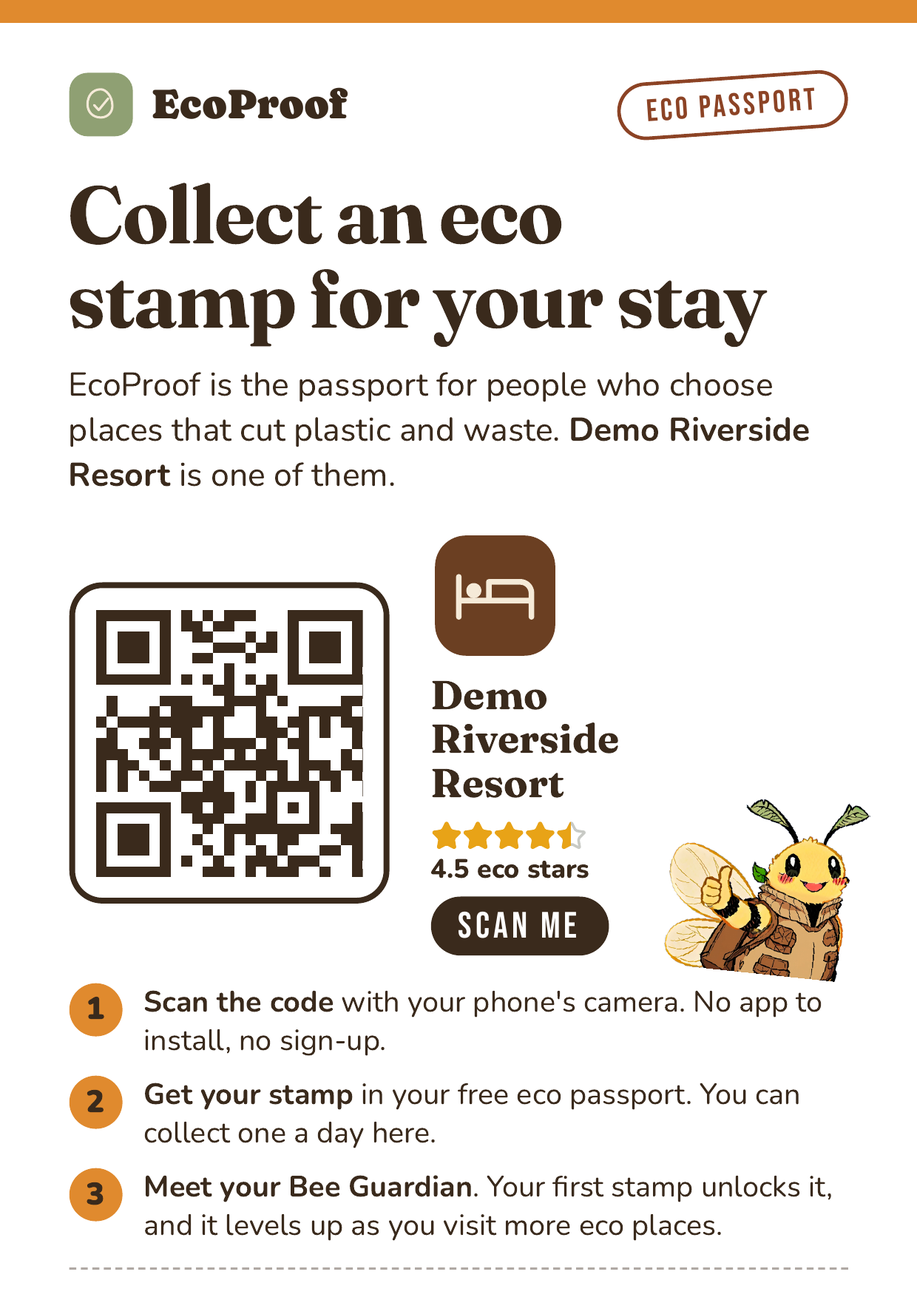
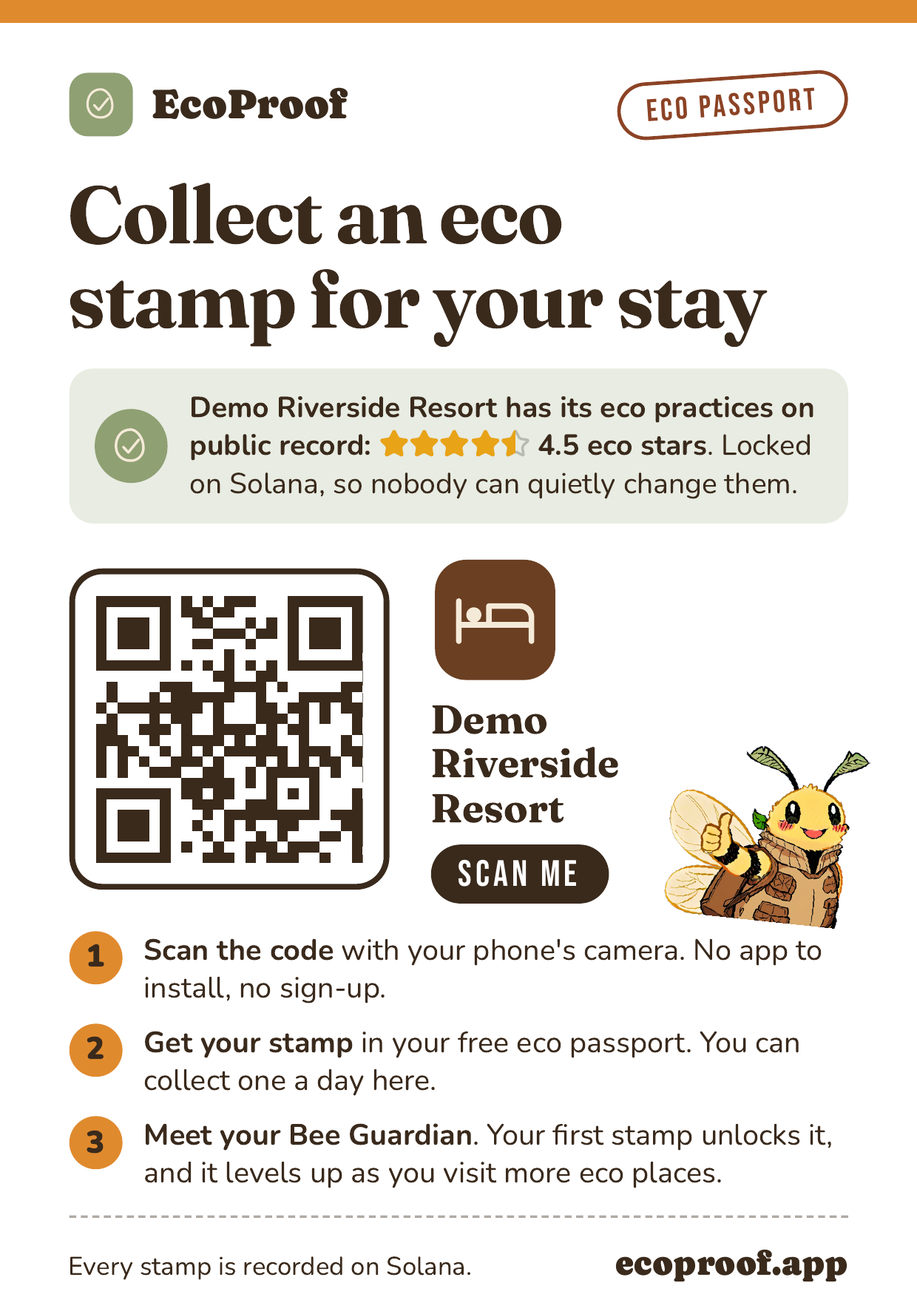
Postcard says the place's eco practices are on public record; hero room gets a big table
The counter postcard shows the place's eco stars in a box under the headline
(published practices, locked on Solana) and drops the lead to make room.
The café, restaurant, hotel and hero pictures are re-made with it. The hero's
wicker table becomes a big wooden one with a jar of tea and a refill bottle.

Claude-Session: https://claude.ai/code/session_01HWHP3iugw8gkvvKKS5vpBj

Changed region(s): [[0.0613, 0.2771, 0.95, 0.9852]]

diff --git a/components/Postcard.tsx b/components/Postcard.tsx
@@ -51,7 +51,13 @@ export default function Postcard({ mark, headline, place, qr, code, steps }: Pos
         </div>
 
         <p className="pc-h">{headline}</p>
-        <p className="pc-lead">EcoProof is the passport for people who choose places that cut plastic and waste. <b>{place.name}</b> is one of them.</p>
+        {place.stars ? <>
+          {/* The lead gives way to this box (the card's height is fixed); the steps still say what the passport is. Why to trust the place itself: its practices are published and anchored (lib/declarations.ts). Self-declared, so "on public record", never "certified". */}
+          <p className="pc-proof">
+            <span className="pc-seal" style={{ background: SAGE }}><LeafMark size={100} /></span>
+            <span><b>{place.name} has its eco practices on public record:</b> <span className="pc-stars"><Stars stars={place.stars} size={100} /></span> <b>{place.stars} eco star{place.stars === 1 ? "" : "s"}</b>. Locked on Solana, so nobody can quietly change them.</span>
+          </p>
+        </> : <p className="pc-lead">EcoProof is the passport for people who choose places that cut plastic and waste. <b>{place.name}</b> is one of them.</p>}
 
         <div className="pc-scan">
           <div className="pc-qr">
@@ -62,7 +68,6 @@ export default function Postcard({ mark, headline, place, qr, code, steps }: Pos
             {/* eslint-disable-next-line @next/next/no-img-element */}
             <img src={place.imageUrl} alt="" className="pc-stamp" />
             <span className="pc-name">{place.name}</span>
-            {!!place.stars && <span className="pc-stars"><Stars stars={place.stars} size={100} /><span>{place.stars} eco star{place.stars === 1 ? "" : "s"}</span></span>}
             <span className="pc-arrow">Scan me</span>
             {code && <span className="pc-code">{code}</span>}
           </div>
@@ -110,9 +115,11 @@ export function postcardCss({ cols, rows, landscape = false }: { cols: number; r
 .pc-place { min-width: 0; flex: 1; display: flex; flex-direction: column; align-items: flex-start; gap: 1.5cqw; }
 .pc-stamp { width: 14cqw; height: 14cqw; }
 .pc-name { max-width: 26cqw; font-family: var(--font-fraunces), Georgia, serif; font-weight: 700; font-size: 4.4cqw; line-height: 1.1; overflow-wrap: anywhere; }
-.pc-stars { display: flex; flex-wrap: wrap; align-items: center; gap: 0.6cqw 1.2cqw; max-width: 26cqw; font-size: 2.9cqw; font-weight: 800; line-height: 1; }
-.pc-stars > span:first-child { display: inline-flex; flex: none; }
-.pc-stars svg { width: 3.4cqw; height: 3.4cqw; }
+.pc-proof { margin-top: 3cqw; padding: 2.2cqw 2.8cqw; display: flex; gap: 2.4cqw; align-items: center; border-radius: 2.6cqw; background: rgba(143, 163, 114, 0.2); font-size: 3.15cqw; line-height: 1.32; text-wrap: pretty; }
+.pc-seal { flex: none; display: inline-flex; align-items: center; justify-content: center; width: 8cqw; height: 8cqw; border-radius: 999px; }
+.pc-seal svg { width: 60%; height: 60%; }
+.pc-stars { display: inline-flex; vertical-align: -0.4cqw; }
+.pc-stars svg { width: 3.3cqw; height: 3.3cqw; }
 .pc-arrow { font-family: var(--font-bebas), Impact, sans-serif; font-size: 4cqw; letter-spacing: 0.1em; text-transform: uppercase; line-height: 1; color: #fff; background: var(--color-cocoa);
   border-radius: 999px; padding: 1.4cqw 3cqw 1cqw; }
 .pc-steps { margin-top: auto; padding-top: 3cqw; display: grid; gap: 1.8cqw; font-size: 3.2cqw; line-height: 1.3; }

diff --git a/components/landing/IslandHero.tsx b/components/landing/IslandHero.tsx
@@ -1,16 +1,16 @@
 import Image from "next/image";
 
 /** The landing's hero: the copy on kraft paper, and a photo of a guest in an eco hotel room in late-afternoon light with the hotel's
- *  A6 postcard on the table (Pola, 2026-11-18: warm, comfy, clean, so the viewer trusts EcoProof and feels a good green choice;
+ *  A6 postcard on a wooden table beside a jar of tea and a refill bottle (Pola, 2026-11-18: warm, comfy, clean, so the viewer trusts EcoProof and feels a good green choice;
  *  recipe in art/hero-room). On wide screens the photo fills the right side and fades into the paper under the copy; on phones it
  *  sits above the copy. The fades are `.hero-photo` in app/globals.css. The island artwork (public/landing/island/v4) and the
  *  plain-colour hero with the map before it were replaced the same day; the island files stay in the repo. */
 export default function IslandHero({ children }: { children: React.ReactNode }) {
   return (
     <section className="grain relative overflow-hidden bg-kraft/60">
-      <Image src="/landing/hero/room.webp" width={2432} height={1664} priority sizes="(min-width: 1024px) 62vw, 100vw"
-        alt="A hotel guest sits by the window with a cup of tea in warm evening light. On the table beside her stands the hotel's EcoProof postcard: Collect an eco stamp for your stay, with a QR code"
-        className="hero-photo block aspect-[3/2] w-full object-cover object-[40%_50%] lg:absolute lg:inset-y-0 lg:right-0 lg:aspect-auto lg:h-full lg:w-[62%]" />
+      <Image src="/landing/hero/room-table.webp" width={2432} height={1664} priority sizes="(min-width: 1024px) 58vw, 100vw"
+        alt="A hotel guest sits by the window with a cup of tea in warm evening light. On the wooden table in front of her, next to a jar of tea and a refill bottle, stands the hotel's EcoProof postcard: Collect an eco stamp for your stay, with a QR code"
+        className="hero-photo block aspect-[3/2] w-full object-cover object-left lg:absolute lg:inset-y-0 lg:right-0 lg:aspect-auto lg:h-full lg:w-[58%]" />
       <div className="relative z-10 px-4 pt-6 pb-14 sm:px-6 lg:pt-20 lg:pb-24">{children}</div>
     </section>
   );

diff --git a/components/landing/Landing.tsx b/components/landing/Landing.tsx
@@ -237,7 +237,7 @@ export default async function Landing({ stats }: { stats: LandingStats | null })
         <IslandHero>
           {/* Copy left; the photo of the hotel guest and the postcard (IslandHero) shows beside it, above it on phones. */}
           <div className="mx-auto max-w-[1200px]">
-            <div className="lg:max-w-[470px]">
+            <div className="lg:max-w-[450px]">
               <HeroCopy />
               <CounterStrip stats={stats} className="mt-8 flex" />
             </div>
@@ -350,7 +350,7 @@ export default async function Landing({ stats }: { stats: LandingStats | null })
         <ul className="mt-8 grid gap-6 md:grid-cols-3">
           {doors.map((d, i) => (
             <li key={d.img} className="stitched grain flex flex-col rounded-[20px] bg-kraft/50 p-4 sm:p-5">
-              <Image src={`/landing/doors/v2/${d.img}.webp`} alt="" width={640} height={640} sizes="(min-width: 768px) 360px, 100vw" className="sticker aspect-[16/10] w-full object-cover object-[50%_70%] md:aspect-square" style={{ transform: `rotate(${[-1.5, 1, -1][i]}deg)` }} />
+              <Image src={`/landing/doors/v3/${d.img}.webp`} alt="" width={640} height={640} sizes="(min-width: 768px) 360px, 100vw" className="sticker aspect-[16/10] w-full object-cover object-[50%_70%] md:aspect-square" style={{ transform: `rotate(${[-1.5, 1, -1][i]}deg)` }} />
               <h3 className="mt-5 text-[22px] leading-tight">{d.title}</h3>
               <p className="mt-2 inline-flex items-center gap-1.5 self-start rounded-full bg-paper px-3 py-1 text-[13px] font-extrabold text-cocoa ring-1 ring-cocoa/10"><Stamp size={14} className="shrink-0 text-sky-ink" /> {d.door}</p>
               {/* Three facts per card (critique of 14 Nov 2026: 12+ chunks for "which one am I?"); what customers get is in "For customers". */}

diff --git a/components/landing/HowItWorks.tsx b/components/landing/HowItWorks.tsx
@@ -24,10 +24,10 @@ const VISIT_POINTS = `${Math.min(...visits)}–${Math.max(...visits)} points`;
 
 const PLACES: { cap: string; title: string; points: string; src: string; alt: string }[] = [
   { cap: "The QR code on the counter", title: "Café, restaurant, hotel or resort", points: `${VISIT_POINTS} for each visit, once a day.`,
-    src: `${PIC}/connect.webp`,
+    src: `${PIC}/counter.webp`,
     alt: "A café counter with the EcoProof postcard on a wooden stand beside a cup of coffee: Collect an eco stamp for your visit, a QR code, three steps and the Bee Guardian" },
   { cap: "The receipt from the till", title: "A purchase in an eco shop", points: `${pointsLabel(POINTS_VERIFIED)} for a photo of the receipt, taken in the shop. ${pointsLabel(POINTS_BY_KIND.eco_shop)} for the QR code at the till.`,
-    src: "/landing/doors/v2/store.webp",
+    src: "/landing/doors/v3/store.webp",
     alt: "The counter of an eco shop: a customer photographs the till receipt with a phone, and the screen shows what the purchase avoided" },
   { cap: "The QR code in the order email or the parcel", title: "An online order", points: `${pointsLabel(POINTS_VERIFIED)} for each verified order.`,
     src: `${PIC}/parcel-home.webp`,

diff --git a/app/globals.css b/app/globals.css
@@ -206,7 +206,7 @@ h1, h2, h3, .font-heading { font-family: var(--font-caprasimo), system-ui, sans-
 }
 /* The hero photo fades into the paper: at its bottom on phones (it sits above the copy), at its left on wide screens (beside the copy). */
 .hero-photo { -webkit-mask-image: linear-gradient(to bottom, #000 72%, transparent); mask-image: linear-gradient(to bottom, #000 72%, transparent); }
-@media (min-width: 1024px) { .hero-photo { -webkit-mask-image: linear-gradient(to right, transparent, #000 26%); mask-image: linear-gradient(to right, transparent, #000 26%); } }
+@media (min-width: 1024px) { .hero-photo { -webkit-mask-image: linear-gradient(to right, transparent, #000 7%); mask-image: linear-gradient(to right, transparent, #000 7%); } }
 /* Kraft hero: a faint vignette toward the edges. */
 .vignette::after { content: ""; position: absolute; inset: 0; pointer-events: none; background: radial-gradient(ellipse at center, transparent 55%, rgba(58, 42, 28, 0.12) 100%); }
 @media (prefers-reduced-motion: reduce) {

diff --git a/art/hero-room/compose.py b/art/hero-room/compose.py
@@ -1,26 +1,27 @@
 #!/usr/bin/env python3
-"""The hero's background: the guest by the window (gen.py tea 1004) with the hotel's A6 postcard on its wooden block on the wicker
-table. Stable Diffusion would not draw the card into a scene with a person, so the card and its block are cut out of the hotel
-reception photo (../postcard/reception2_436.png, with the app's own postcard printed on it as in ../postcard/compose.py), warmed to
-this room's evening light and set on the table over the saucer. The room is enlarged 2x first (A1111 extras, R-ESRGAN 4x+) so the
-picture can fill a wide screen. Corners and outlines are read off gridded zooms by hand.
-Run with the WebUI venv python (numpy, cv2) → out_hero.png (2432x1664)."""
+"""The hero's background: the guest by the window (gen.py tea 1004, its small wicker table repainted by table.py 1205 into a big
+wooden table with a jar of tea, an amber bottle and a plant) with the hotel's A6 postcard on its wooden block on that table. Stable
+Diffusion would not draw the card into a scene with a person, so the card and its block are cut out of the hotel reception photo
+(../postcard/reception2_436.png, with the app's own postcard printed on it as in ../postcard/compose.py), warmed to this room's
+evening light and set on the table. The room is enlarged 2x first (A1111 extras, R-ESRGAN 4x+) so the picture can fill a wide
+screen. Corners and outlines are read off gridded zooms by hand. The card must stay clear of the picture's left edge: the hero fades
+that edge into the paper. Run with the WebUI venv python (numpy, cv2) → out_hero.png (2432x1664)."""
 import base64, io, json, pathlib, urllib.request
 import numpy as np, cv2
 from PIL import Image
 D = pathlib.Path(__file__).parent
 QUAD = [(376, 369), (592, 372), (612, 765), (401, 796)]                                   # the blank card in the reception photo, TL TR BR BL
 BLOCK = [(303, 775), (400, 760), (615, 760), (773, 793), (773, 900), (500, 974), (303, 864)]  # the wooden block's outline
-FOOT, AT, SCALE = (500, 974), (362, 697), 0.45    # the block's front corner, where it stands in the room (1216 wide), and its size there
+FOOT, AT, SCALE = (500, 974), (170, 702), 0.5     # the block's front corner, where it stands in the room (1216 wide), and its size there
 TINT = np.array((0.93, 0.80, 0.62))               # evening light on the cut-out
 SS = 2
 
-if not (D/"tea_1004_x2.png").exists():
-    b = io.BytesIO(); Image.open(D/"tea_1004.png").save(b, "PNG")
+if not (D/"table_1205_x2.png").exists():
+    b = io.BytesIO(); Image.open(D/"table_1205.png").save(b, "PNG")
     req = urllib.request.Request("http://127.0.0.1:7860/sdapi/v1/extra-single-image", headers={"Content-Type": "application/json"},
         data=json.dumps({"image": base64.b64encode(b.getvalue()).decode(), "upscaling_resize": 2, "upscaler_1": "R-ESRGAN 4x+"}).encode())
-    Image.open(io.BytesIO(base64.b64decode(json.load(urllib.request.urlopen(req, timeout=900))["image"]))).convert("RGB").save(D/"tea_1004_x2.png")
-room = np.asarray(Image.open(D/"tea_1004_x2.png"), np.float32)
+    Image.open(io.BytesIO(base64.b64decode(json.load(urllib.request.urlopen(req, timeout=900))["image"]))).convert("RGB").save(D/"table_1205_x2.png")
+room = np.asarray(Image.open(D/"table_1205_x2.png"), np.float32)
 
 src = cv2.cvtColor(cv2.imread(str(D/"../postcard/reception2_436.png")), cv2.COLOR_BGR2RGB); H, W = src.shape[:2]
 big = cv2.resize(src, (W*SS, H*SS), interpolation=cv2.INTER_LANCZOS4).astype(np.float32)
@@ -37,7 +38,7 @@ k = SCALE*2/SS
 A = np.float32([[k, 0, AT[0]*2 - FOOT[0]*SS*k], [0, k, AT[1]*2 - FOOT[1]*SS*k]]); size = (room.shape[1], room.shape[0])
 cut = cv2.warpAffine(big, A, size, flags=cv2.INTER_AREA); m = cv2.warpAffine(mask, A, size, flags=cv2.INTER_AREA).astype(np.float32)/255
 m = cv2.GaussianBlur(m, (0, 0), 0.8)[..., None]
-shadow = cv2.GaussianBlur(np.roll(m[..., 0], (14, -6), (0, 1)), (0, 0), 12)[..., None]    # the light comes from the window behind: the shadow falls to the front
+shadow = cv2.GaussianBlur(np.roll(m[..., 0], (16, 14), (0, 1)), (0, 0), 12)[..., None]    # the light comes from the window behind: the shadow falls to the front
 room = room*(1 - 0.5*shadow*(1-m))
 room = room*(1-m) + cut*TINT*m
 Image.fromarray(room.clip(0, 255).astype(np.uint8)).save(D/"out_hero.png"); print("wrote out_hero.png")

diff --git a/art/hero-room/gen.py b/art/hero-room/gen.py
@@ -12,6 +12,8 @@ PROMPTS = {
  "tea": "photo of a bright eco boutique hotel room, " + CARD + "behind it softly out of focus a relaxed happy woman in a linen shirt sits in a rattan armchair by the big window holding a cup of tea and looking out at a green garden, a neatly made bed with white linen, wooden floor, green plants, " + COMMON,
  "bed": "photo of a bright eco boutique hotel room, " + CARD + "behind it softly out of focus a relaxed smiling woman in a white bathrobe sits on the neatly made bed with white linen reading a book, a big window with a green garden view, wooden floor, rattan lamp, green plants, " + COMMON,
  "window": "photo of a bright eco boutique hotel room, " + CARD + "behind it softly out of focus a relaxed man in a linen shirt stands at the open balcony door with a cup of coffee looking out over green hills, a neatly made bed with white linen, wooden floor, rattan chair, green plants, " + COMMON,
+ "desk": "photo of a bright eco boutique hotel room, in the foreground a long wide solid wooden table seen slightly from above, sharply in focus, on the table a glass water carafe with two glasses, a stainless steel reusable water bottle, refillable amber glass pump bottles, a glass jar of loose leaf tea, a bar of soap wrapped in brown paper, a folded cotton tote bag, a small potted plant and a woven basket, an empty clear area in the middle of the table, behind the table softly out of focus a relaxed happy woman in a linen shirt sits in a rattan armchair by the big wooden window holding a cup of tea and looking out at a green garden, a neatly made bed with white linen, " + COMMON,
+ "desk2": "photo of a bright eco boutique hotel room, in the foreground the left half of the frame is a large solid wooden desk seen slightly from above, sharply in focus, on the desk a glass water carafe with a glass, refillable amber glass pump bottles, a glass jar of loose leaf tea, a bar of soap wrapped in brown paper, a rolled linen towel and a small potted plant arranged at the back of the desk, the front of the desk is empty, on the right softly out of focus a relaxed happy woman in a linen shirt sits in a rattan armchair by the big wooden window holding a cup of tea, side view, a neatly made bed with white linen, " + COMMON,
 }
 NEG = "text, letters, writing, logo, qr code, barcode, icons, picture frame, photo frame, landscape format card, folded card, tent card, two cards, phone, laptop, cartoon, illustration, painting, 3d render, cgi, blurry foreground, low quality, deformed, extra fingers, bad hands, watermark, plastic bottles, green walls, neon, clutter, nudity"
 def post(path, payload):

diff --git a/art/hero-room/table.py b/art/hero-room/table.py
@@ -1,0 +1,23 @@
+#!/usr/bin/env python3
+"""A bigger table with eco products for the hero's room (Pola, 2026-11-18: the wicker table was too small for the postcard stand, and
+the room should feel like an eco hotel). A whole new scene with such a table loses the guest, so only the lower left of tea_1004.png
+is repainted (A1111 inpainting, epicrealismXL); the guest, her cup and the light stay. Usage: table.py seed... → table_<seed>.png."""
+import base64, io, json, sys, pathlib, urllib.request
+import numpy as np, cv2
+from PIL import Image
+D = pathlib.Path(__file__).parent
+CKPT = "sd/epicrealismXL_vxviiCrystalclear.safetensors [3267fd6443]"
+AREA = [(0, 400), (415, 400), (415, 600), (600, 640), (640, 832), (0, 832)]   # the plant, the wicker table and the floor around it; not her hand and cup
+mask = np.zeros((832, 1216), np.uint8); cv2.fillPoly(mask, [np.int32(AREA)], 255)
+b64 = lambda im: base64.b64encode((lambda b: (im.save(b, "PNG"), b.getvalue())[1])(io.BytesIO())).decode()
+PROMPT = ("a large solid wooden table in the foreground seen slightly from above, on it a glass water carafe and a drinking glass, refillable amber glass pump bottles, "
+  "a glass jar of loose leaf tea, a bar of soap wrapped in brown paper, a small potted plant, an empty clear area at the front of the table, eco boutique hotel room, "
+  "late afternoon golden hour sunlight, warm glow, photorealistic, editorial travel photography, high detail")
+for seed in sys.argv[1:]:
+    req = urllib.request.Request("http://127.0.0.1:7860/sdapi/v1/img2img", headers={"Content-Type": "application/json"}, data=json.dumps({
+        "init_images": [b64(Image.open(D/"tea_1004.png"))], "mask": b64(Image.fromarray(mask)), "mask_blur": 12, "inpainting_fill": 1, "inpaint_full_res": False,
+        "denoising_strength": 0.92, "prompt": PROMPT, "negative_prompt": "text, letters, logo, card, paper sign, plastic bottles, people, hands, clutter, cartoon, blurry, deformed, watermark",
+        "seed": int(seed), "steps": 30, "cfg_scale": 6, "sampler_name": "DPM++ 2M", "scheduler": "karras", "width": 1216, "height": 832,
+        "override_settings": {"sd_model_checkpoint": CKPT}, "save_images": False}).encode())
+    im = Image.open(io.BytesIO(base64.b64decode(json.load(urllib.request.urlopen(req, timeout=900))["images"][0])))
+    im.save(D/f"table_{seed}.png"); print(seed, flush=True)

diff --git a/CLAUDE.md b/CLAUDE.md
@@ -68,6 +68,7 @@ on Solana. For sustainable shops, cafés, markets and online brands.
   the colour. No name inside it (unreadable at 44px, and the name always stands beside it), so never crop it with `rounded-full`.
   The owner changes logo and tagline in the dashboard's "Logo and tagline" panel (`components/ProfilePanel.tsx`,
   `PUT /api/places/mine/<id>/profile`, rules in `lib/placeLogo.ts`); the name can't be changed yet.
+- Postcard, proof box (Pola, 2026-11-18): when the place has published practices (stars), the card shows under the headline "<Place> has its eco practices on public record: ★ N eco stars. Locked on Solana, so nobody can quietly change them." and drops the lead to make room. Practices are self-declared, so the wording is "on public record", never "certified" or "verified eco". Every landing picture with a postcard was re-made with it (`art/postcard`, hero).
 - Postcard (`components/Postcard.tsx`): the one printed card, used for a place's counter or tables (`/place/<id>`, "Print your postcard")
   only. An online shop's parcel cards (`/place/<id>/cards?batch=`, 20 single-use codes per batch) are `ParcelCard` in the same file: a business card (85 x 55 mm, ten on an A4 sheet, `parcelCardCss()`), with only the QR, the code, the headline, the shop's name, "no app, no sign-up", "works once" and the bee (Pola, 2026-11-18: a green shop must not put an A6 card in a parcel). The postcard It must explain EcoProof to someone
   who has never heard of it (Pola, 2026-11-16: nobody scans a QR without knowing what it is): headline, one sentence on EcoProof, the
@@ -98,7 +99,7 @@ on Solana. For sustainable shops, cafés, markets and online brands.
   caches bust; current `v4`. A scroll parallax was tried and dropped (not seen as moving, blurred the strip). The Bee Guardian cutout (`public/landing/bee.webp`, from `art/v2/ranks/sentinel/sentinel_card.png`) peeks in. The
   card-fan hero (`components/landing/HeroArt.tsx`, `public/landing/cards/*.webp`, 2x of 300x420, from `art/v2/compositor/samples/`, SVG stamp
   rings) stays behind `NEXT_PUBLIC_LANDING_HERO=cards`. Paper grain and stamps are CSS. Buildings inpainted onto the island (`inpaint.py`,
-  `v3_*.py`) never matched; the island stays as generated. The earlier SD flat-lay hero (`art/hero-r1/`, `art/v2/hero/`) was dropped for mixing two styles; the owner-door photos (`public/landing/doors/v2/`). Since 2026-11-18 every picture of a place shows the real A6 postcard, not a bare QR card (Pola): `art/postcard/` holds the recipe. `gen.py <scene> <seeds>` renders epicrealismXL scenes with one blank portrait card on a wooden stand (café 403, restaurant 403, hotel `reception2` 436, eco store 402 are the picks; a card on a hotel bedside table never stood up, so the hotel is a reception desk, and the card must stand upright and face the camera: a leaning one reads as a crooked print); the card is the app's own print of a local demo place (`brave --headless --print-to-pdf http://localhost:3000/place/<id>?size=a4`, `pdftoppm -r 150 -png`; local-only places demo-cafe, demo-restaurant, demo-hotel, demo-eco-shop), `web_qr.py` swaps its QR for one to https://ecoproof.app, and `compose.py <cafe|restaurant|hotel|store>` finds the blank card and multiplies the postcard onto it → `out_<key>.png`. In use: café = `steps/v2/connect.webp`, restaurant = `doors/v2/coffee.webp`, hotel = `doors/v2/hotel.webp`; the store one (`out_store.png`) is made but not placed. The store door keeps the earlier receipt photo
+  `v3_*.py`) never matched; the island stays as generated. The earlier SD flat-lay hero (`art/hero-r1/`, `art/v2/hero/`) was dropped for mixing two styles; the owner-door photos (`public/landing/doors/v3/`). Since 2026-11-18 every picture of a place shows the real A6 postcard, not a bare QR card (Pola): `art/postcard/` holds the recipe. `gen.py <scene> <seeds>` renders epicrealismXL scenes with one blank portrait card on a wooden stand (café 403, restaurant 403, hotel `reception2` 436, eco store 402 are the picks; a card on a hotel bedside table never stood up, so the hotel is a reception desk, and the card must stand upright and face the camera: a leaning one reads as a crooked print); the card is the app's own print of a local demo place (`brave --headless --print-to-pdf http://localhost:3000/place/<id>?size=a4`, `pdftoppm -r 150 -png`; local-only places demo-cafe, demo-restaurant, demo-hotel, demo-eco-shop), `web_qr.py` swaps its QR for one to https://ecoproof.app, and `compose.py <cafe|restaurant|hotel|store>` finds the blank card and multiplies the postcard onto it → `out_<key>.png`. In use: café = `steps/v2/counter.webp`, restaurant = `doors/v3/coffee.webp`, hotel = `doors/v3/hotel.webp`; the store one (`out_store.png`) is made but not placed. The store door keeps the earlier receipt photo
   (from `art/doors/v2/`: epicrealismXL scenes with blank surfaces, `gen.py`, restaurant seed 202, hotel 211, store 203 with the hand repainted off the
   screen by `inpaint_hand.py` seed 306; the screen is placed from the phone's `glass` corners in `compose.py`: the glass is painted near-black, then the screenshot goes inside it with an even bezel and rounded corners; `compose.py` prints the real QR card, the SuperBee receipt and the EcoProof screen from `assets.mjs` onto them; the café tile uses `coffee.webp`) and partner logos (`public/landing/partners/`, from
   `art/partner/`) stay. Step images `public/landing/steps/v2/` (a new folder whenever a deployed picture changes, so caches bust): connect is the café postcard photo (above; the earlier QR-card composites live in `art/steps/connect/`), parcel-home is the "order arrived" picture in a kitchen (Pola, 2026-11-18: real life, not a mail-window mock; the parcel card is a business card and lies in the opened parcel): `art/steps/email/gen.py inbox 905` is the epicrealismXL scene (a table from above, an opened kraft parcel with a white sheet in it, a tablet on a stand; SD would not draw a blank business card on request, so the sheet is tinted to packing paper and the card laid on it); the card is the app's own print (`/place/demo-eco-shop/cards?batch=picture&token=<ADMIN_TOKEN>` to PDF, `pdftoppm -r 600` crop → `bizcard.png`; local-only card DEMO7PARCL), its QR swapped for one to https://ecoproof.app; `render.php client full` (widened to 1333px with sed) runs `EcoProof_Stamp::html` outside WordPress as a mail app → `tablet-land.html`, screenshot with headless Brave at 1333x1000, scale 2 → `tablet-land.png`; `compose.py` puts both in by hand-read corners → `out_home.png`. The earlier scene (`gen.py parcel 525`, upright tablet, `render.php client full portrait`) had a blank A6 card and was replaced. A living-room version (`gen.py sofa 513`) came first and was replaced; `render.php client` still makes the mail-window mock, proof is the "Proof on Solana" card cropped out of `art/steps/stamp/stamp.png` (888,95, 685x572), stamp is a screenshot from
@@ -111,7 +112,7 @@ on Solana. For sustainable shops, cafés, markets and online brands.
   (`components/landing/CheckRecord.tsx` → `/api/verify`); "Your impact page writes itself" shows the example shop (most verified purchases) with
   its numbers linking to `/places/<id>#proofs` (the proof list, `shopProofs()` in `lib/shops.ts`), and the live badge: `lib/badge.ts` builds the SVG,
   `/api/badge/<place>.svg` serves it (eco shops only, cached 5 min), `badgeEmbed()` is the snippet, shown only on the owner dashboard (`badge` in the activity API); the landing shows the badge image without its code. Below `FEW_ORDERS` (10, `lib/badge.ts`) verified orders the badge and the landing widget lead with the order count instead of the totals, so one big order can't look like inflation. With no example shop the widget shows dashes,
-  never zeros. The hero (Pola, 2026-11-18) is the copy on kraft with a photo beside it (above it on phones; `IslandHero.tsx`, fades in `.hero-photo`): a guest by the window of an eco hotel room in late-afternoon golden light, tea in hand, the hotel's A6 postcard on its wooden block on the table; the goal is warm, comfy, clean, "you can trust EcoProof, a good green choice". Recipe `art/hero-room/`: `gen.py tea 1004` (epicrealismXL, 1216x832; SD never draws the card into a scene with a person), `compose.py` enlarges it 2x (A1111 extras, R-ESRGAN 4x+), cuts card and block out of `art/postcard/reception2_436.png` with the postcard printed on, warms them and sets them on the table → `out_hero.png` → `public/landing/hero/room.webp`. The map of eco places (`MapPicture`) that stood in the hero has its own band under the award line ("Eco places, on one map."). Section order: hero, the award line, the map band (partner logos and "founding partner" dropped 2026-11-15), customers ("I'm eco, and I have proof.", `#customers`, moved up under the hero on 2026-11-18; its picture is the passport phone mockup), "How it works" (`#how`, a carousel since 2026-11-18, `components/landing/HowItWorks.tsx`; it replaced "Live in three steps" and the Solana journey, which told the same steps: slide 1 "Find the QR code" shows three places to find it, each a picture with what a stamp there is worth, in this order: the café postcard photo (café / restaurant / hotel / resort), the eco shop door's receipt photo (a purchase in an eco shop), the parcel-arrived picture (an online order: parcel card and order email); points read from `lib/stampClasses.ts`; slide 2 "A few seconds on the phone" has the stamp picture, four steps worded for a visit and an order at once (no switch), "Watch it on a phone" (swaps the picture for the visit replay) and sharing; slide 3 "And it stays that way" is the plain-words "What is Solana, and why put a coffee stamp on it?" with the proof picture under it, the promises and honest limits, and carries `#why-chain`, which opens that slide; one scroll-snap row, as tall as the slide on show, with tabs and a next button that ends in "Join as a business". Pola wants slide 2 more interactive or animated later: talk first), "Anyone can print a green badge" (`#proof`: claim vs a record headlined "Unchanged since <date>", with the live check), business types, "Your public page writes itself" (`#impact`: badge, the shop impact widget, and a star card from `LandingStats.hospitality` with a Café / Restaurant | Hotel / Resort switch (`components/landing/HospitalityCard.tsx`; each a real place once one has published stars, else a demo place shown as a dashed specimen with unfilled stars; the hotel side adds "What guests see before they book"), after the real shop widget on phones), pricing, closing. Below `COUNTERS_FROM` proofs the hero shows an "early days" line instead of counter tiles; below 10 purchases the impact widget starts with the orders behind its numbers and highlights no figure. Phones get a "Try it: collect a demo stamp" button instead of the QR card. The phone replay (`components/landing/StampJourney.tsx`, `door` prop, loops, still under reduced motion) replays the real claim steps for a visit or an order; the scannable on-page QR card, the hash/memo tiles (`ChainFlow`) and the on/off-chain box were dropped as too much, too technical.
+  never zeros. The hero (Pola, 2026-11-18) is the copy on kraft with a photo beside it (above it on phones; `IslandHero.tsx`, fades in `.hero-photo`): a guest by the window of an eco hotel room in late-afternoon golden light, tea in hand, the hotel's A6 postcard on its wooden block on the table; the goal is warm, comfy, clean, "you can trust EcoProof, a good green choice". Recipe `art/hero-room/`: `gen.py tea 1004` (epicrealismXL, 1216x832; SD never draws the card into a scene with a person, and a prompt for a big table with eco products loses the person), `table.py 1205` repaints only the small wicker table into a big wooden one with a jar of tea, an amber bottle and a plant (inpainting; Pola wanted room for the stand and an eco-hotel feel), `compose.py` enlarges that 2x (A1111 extras, R-ESRGAN 4x+), cuts card and block out of `art/postcard/reception2_436.png` with the postcard printed on, warms them and sets them on the table → `out_hero.png` → `public/landing/hero/room-table.webp` (the card stays clear of the photo's left edge, which fades into the paper; the copy column is 450px so it never reaches the card). The map of eco places (`MapPicture`) that stood in the hero has its own band under the award line ("Eco places, on one map."). Section order: hero, the award line, the map band (partner logos and "founding partner" dropped 2026-11-15), customers ("I'm eco, and I have proof.", `#customers`, moved up under the hero on 2026-11-18; its picture is the passport phone mockup), "How it works" (`#how`, a carousel since 2026-11-18, `components/landing/HowItWorks.tsx`; it replaced "Live in three steps" and the Solana journey, which told the same steps: slide 1 "Find the QR code" shows three places to find it, each a picture with what a stamp there is worth, in this order: the café postcard photo (café / restaurant / hotel / resort), the eco shop door's receipt photo (a purchase in an eco shop), the parcel-arrived picture (an online order: parcel card and order email); points read from `lib/stampClasses.ts`; slide 2 "A few seconds on the phone" has the stamp picture, four steps worded for a visit and an order at once (no switch), "Watch it on a phone" (swaps the picture for the visit replay) and sharing; slide 3 "And it stays that way" is the plain-words "What is Solana, and why put a coffee stamp on it?" with the proof picture under it, the promises and honest limits, and carries `#why-chain`, which opens that slide; one scroll-snap row, as tall as the slide on show, with tabs and a next button that ends in "Join as a business". Pola wants slide 2 more interactive or animated later: talk first), "Anyone can print a green badge" (`#proof`: claim vs a record headlined "Unchanged since <date>", with the live check), business types, "Your public page writes itself" (`#impact`: badge, the shop impact widget, and a star card from `LandingStats.hospitality` with a Café / Restaurant | Hotel / Resort switch (`components/landing/HospitalityCard.tsx`; each a real place once one has published stars, else a demo place shown as a dashed specimen with unfilled stars; the hotel side adds "What guests see before they book"), after the real shop widget on phones), pricing, closing. Below `COUNTERS_FROM` proofs the hero shows an "early days" line instead of counter tiles; below 10 purchases the impact widget starts with the orders behind its numbers and highlights no figure. Phones get a "Try it: collect a demo stamp" button instead of the QR card. The phone replay (`components/landing/StampJourney.tsx`, `door` prop, loops, still under reduced motion) replays the real claim steps for a visit or an order; the scannable on-page QR card, the hash/memo tiles (`ChainFlow`) and the on/off-chain box were dropped as too much, too technical.
 - `/join` lives outside `(app)` (`app/join/`, content in `components/landing/JoinFlow.tsx`) and wears the landing's journal chrome (`LandingNav page="join"`);
   sign-in there leads with Google/Facebook, the wallet sits under "Other ways to sign in".
 - Points by kind (`POINTS_BY_KIND` in `lib/stampClasses.ts`, decided 21 Oct 2026): a presence stamp is worth 1 at a café or restaurant,
